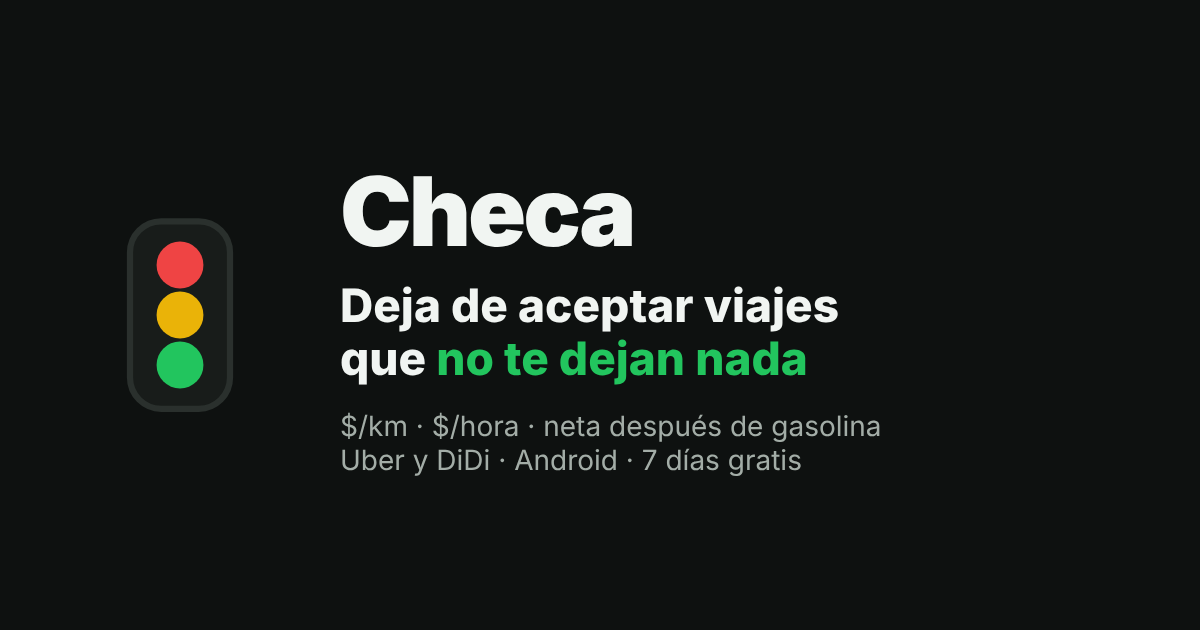
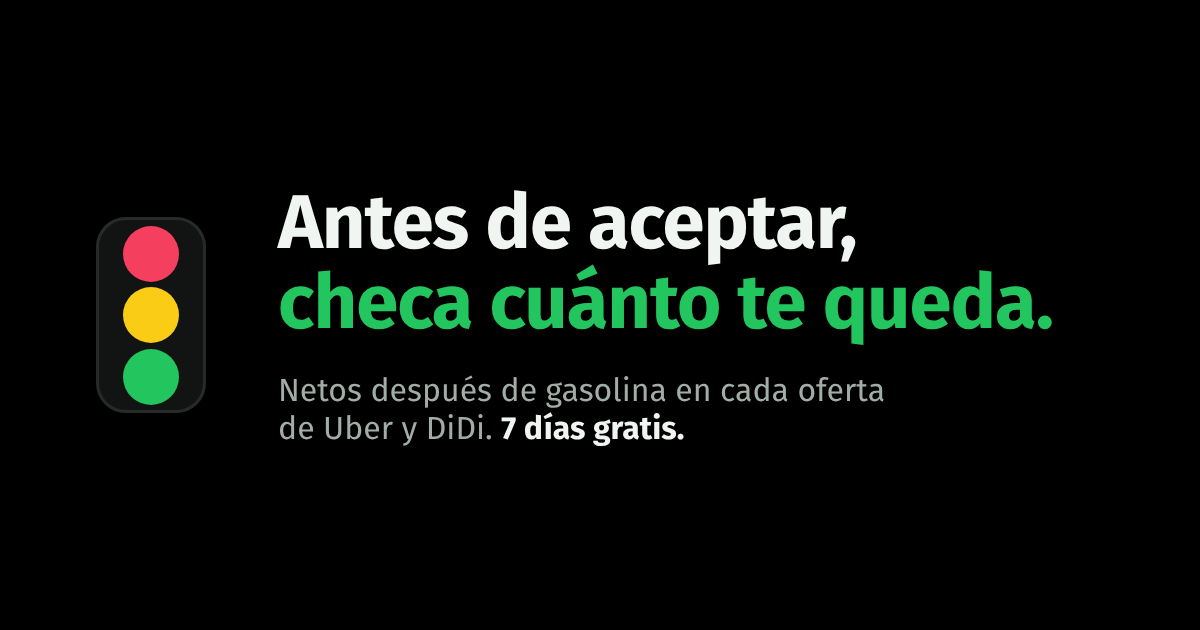
Conversión: descarga desde /instalar/, aviso para iPhone y computadora, og.png nuevo
Claude-Session: https://claude.ai/code/session_01WKzGqoZqLsekezgApZx2Y8

Changed region(s): [[0.0925, 0.2714, 0.8942, 0.754]]

diff --git a/index.html b/index.html
@@ -37,7 +37,7 @@
       <a href="#demo">Pruébalo</a>
       <a href="#precios">Precios</a>
       <a href="#faq">Preguntas</a>
-      <a class="btn btn-primary btn-sm" href="descargar/Checa.apk" download data-dl="nav">Descargar gratis</a>
+      <a class="btn btn-primary btn-sm" href="instalar/?desde=nav" data-dl="nav">Descargar gratis</a>
     </nav>
   </div>
 </header>
@@ -52,7 +52,7 @@
       <h1>Antes de aceptar, <span>checa cuánto te queda.</span></h1>
       <p class="lead">Cuando te llega una oferta en Uber o DiDi, Checa te muestra encima tus <strong>netos después de gasolina</strong>, el pago por km y por hora. Te dice en voz alta si conviene: Aceptar, Considerar o Rechazar.</p>
       <div class="ctas">
-        <a class="btn btn-primary" href="descargar/Checa.apk" download data-dl="hero">
+        <a class="btn btn-primary" href="instalar/?desde=hero" data-dl="hero">
           <svg viewBox="0 0 24 24" fill="none" stroke="currentColor" stroke-width="2.2" stroke-linecap="round" stroke-linejoin="round" aria-hidden="true"><path d="M12 3v12m0 0l-5-5m5 5l5-5M4 20h16"/></svg>
           Descargar gratis · 7 días
         </a>
@@ -63,6 +63,7 @@
         <li><svg viewBox="0 0 24 24" aria-hidden="true"><path d="M5 12l5 5 9-10"/></svg>Para Android</li>
       </ul>
       <p class="dl-meta">APK para Android 8 o superior</p>
+      <p class="device-note" id="device-note" hidden></p>
     </div>
     <div aria-label="Ejemplo del pop-up de Checa sobre una oferta de viaje, con números de ejemplo">
       <div class="phone">
@@ -139,7 +140,7 @@
           <div class="range"><label for="r-gas">Precio de la gasolina <output id="r-gas-out"></output></label><input type="range" id="r-gas" min="20" max="30" step="0.5" value="24"></div>
         </div>
         <p class="formula">Los km y minutos incluyen la recogida. Gasolina = km ÷ 12 km/l × precio. Verde si cumple tus dos metas, amarillo si cumple una, rojo si ninguna.</p>
-        <div class="ctas"><a class="btn btn-primary" href="descargar/Checa.apk" download data-dl="demo">Quiero esto en mi teléfono</a></div>
+        <div class="ctas"><a class="btn btn-primary" href="instalar/?desde=demo" data-dl="demo">Quiero esto en mi teléfono</a></div>
       </div>
       <div class="demo-pop"><div class="pop" id="demo-pop" role="status" aria-live="polite"></div></div>
     </div>
@@ -209,7 +210,7 @@
           <li>Filtros, voz y vibración</li>
           <li>1 equipo</li>
         </ul>
-        <a class="btn btn-ghost" href="descargar/Checa.apk" download data-dl="basico">Empezar mis 7 días gratis</a>
+        <a class="btn btn-ghost" href="instalar/?desde=basico" data-dl="basico">Empezar mis 7 días gratis</a>
       </div>
       <div class="card price hot">
         <span class="badge">Recomendado</span>
@@ -222,7 +223,7 @@
           <li>Mejores horas de toda la semana</li>
           <li>2 equipos (teléfono y tablet)</li>
         </ul>
-        <a class="btn btn-primary" href="descargar/Checa.apk" download data-dl="estratega">Empezar mis 7 días gratis</a>
+        <a class="btn btn-primary" href="instalar/?desde=estratega" data-dl="estratega">Empezar mis 7 días gratis</a>
       </div>
       <div class="card price">
         <h3>Pro</h3>
@@ -232,7 +233,7 @@
           <li>Todo lo del Estratega</li>
           <li>Un año completo sin renovar</li>
         </ul>
-        <a class="btn btn-ghost" href="descargar/Checa.apk" download data-dl="pro">Empezar mis 7 días gratis</a>
+        <a class="btn btn-ghost" href="instalar/?desde=pro" data-dl="pro">Empezar mis 7 días gratis</a>
       </div>
     </div>
     <p class="payoff">Con un viaje malo que evites a la semana, el Estratega ya se pagó.</p>
@@ -277,7 +278,7 @@
   <div class="wrap">
     <h2>Tu próxima oferta, con la cuenta hecha.</h2>
     <div class="ctas">
-      <a class="btn btn-primary" href="descargar/Checa.apk" download data-dl="cierre">Descargar gratis · 7 días</a>
+      <a class="btn btn-primary" href="instalar/?desde=cierre" data-dl="cierre">Descargar gratis · 7 días</a>
     </div>
     <p class="dl-meta">APK para Android 8 o superior</p>
     <p class="muted small">Sin tarjeta</p>
@@ -287,7 +288,7 @@
 </main>
 
 <div class="sticky-cta" id="sticky-cta">
-  <a class="btn btn-primary" href="descargar/Checa.apk" download data-dl="fijo">Descargar gratis · 7 días</a>
+  <a class="btn btn-primary" href="instalar/?desde=fijo" data-dl="fijo">Descargar gratis · 7 días</a>
 </div>
 
 <footer>

diff --git a/instalar/index.html b/instalar/index.html
@@ -24,9 +24,10 @@
 <main id="main" class="wrap page">
   <span class="kicker" id="i-kick">Instalar</span>
   <h1 id="i-title">Instala Checa en 2 minutos</h1>
-  <p class="lead">Sigue estos pasos una sola vez.</p>
+  <p class="lead">Sigue estos pasos una sola vez. Si Chrome pregunta si quieres descargar el archivo, toca <strong>Descargar</strong>.</p>
   <div class="ctas" id="i-dl"><a class="btn btn-primary" href="../descargar/Checa.apk" download data-ev="descarga_instalar">Descargar Checa (APK)</a></div>
   <p class="dl-meta">APK para Android 8 o superior</p>
+  <p class="device-note" id="i-note" hidden></p>
   <ol class="install" style="margin-top:24px">
     <li><div><h3>Abre el archivo Checa.apk</h3><p>Está en tus descargas. Si te lo pide, permite <strong>«Instalar apps desconocidas»</strong> para tu navegador.</p></div></li>
     <li><div><h3>Si Play Protect avisa</h3><p>Toca <strong>Más detalles → Instalar de todos modos</strong>. Avisa porque Checa usa Accesibilidad para leer la oferta.</p></div></li>
@@ -52,11 +53,21 @@
 <script>
 (function(){
   function track(n,d){ if(window.checaTrack) try{ window.checaTrack(n,d||{}); }catch(e){} }
-  if (/[?&]desde=/.test(location.search)) {
+  var android = /Android/i.test(navigator.userAgent || '');
+  var desde = (location.search.match(/[?&]desde=([^&]+)/) || [])[1];
+  var note = document.getElementById('i-note');
+  if (!android) {
+    note.textContent = /iPhone|iPad|iPod/i.test(navigator.userAgent || '')
+      ? 'Checa funciona solo en Android. Abre esta página en tu teléfono Android.'
+      : 'Estás en computadora: abre esta página en tu teléfono Android para instalar Checa.';
+    note.hidden = false;
+  } else if (desde) {
+    // La descarga arranca aquí, así el aviso de Chrome no se pierde al cambiar de página
     document.getElementById('i-kick').textContent = 'Listo';
     document.getElementById('i-title').textContent = 'Tu descarga ya empezó';
     var a = document.querySelector('#i-dl a'); a.className = 'btn btn-ghost'; a.textContent = '¿No bajó? Descargar otra vez';
-    track('llego_instalar');
+    setTimeout(function(){ location.href = '../descargar/Checa.apk'; }, 400);
+    track('descarga', { desde: decodeURIComponent(desde) });
   }
   document.querySelectorAll('[data-ev]').forEach(function(a){ a.addEventListener('click', function(){ track(a.getAttribute('data-ev')); }); });
   var m = document.querySelector('.dl-meta');

diff --git a/app.js b/app.js
@@ -137,13 +137,22 @@
   document.querySelectorAll('[data-dl]').forEach(function (a) {
     a.addEventListener('click', function () {
       var src = a.getAttribute('data-dl');
-      track('descarga', { desde: src });
-      setTimeout(function () { location.href = 'instalar/?desde=' + encodeURIComponent(src); }, 1500);
+      track('clic_descargar', { desde: src });
     });
   });
   document.querySelectorAll('[data-ev]').forEach(function (a) {
     a.addEventListener('click', function () { track(a.getAttribute('data-ev')); });
   });
+
+  // iPhone o computadora: avisar que Checa es para Android
+  var note = document.getElementById('device-note');
+  var ua = navigator.userAgent || '';
+  if (note && !/Android/i.test(ua)) {
+    note.textContent = /iPhone|iPad|iPod/i.test(ua)
+      ? 'Checa funciona solo en Android. Si manejas con un Android, abre esta página en ese teléfono.'
+      : 'Estás en computadora: abre esta página en tu teléfono Android para instalar Checa.';
+    note.hidden = false;
+  }
 
   // Botón fijo en el teléfono: aparece al pasar el encabezado
   var sticky = document.getElementById('sticky-cta'), hero = document.getElementById('inicio');

diff --git a/styles.css b/styles.css
@@ -256,3 +256,4 @@ h1,h2,h3{font-weight:800}
 .bul{list-style:none;padding:0;margin:20px 0;display:grid;gap:10px}
 .bul li{padding-left:30px;position:relative}
 .bul li::before{content:"";position:absolute;left:6px;top:9px;width:12px;height:7px;border-left:2.5px solid var(--green);border-bottom:2.5px solid var(--green);transform:rotate(-45deg)}
+.device-note{margin-top:12px;padding:12px 14px;border:1px solid var(--yellow);border-radius:12px;color:var(--fg);font-size:.95rem;background:rgba(250,204,21,.06)}
